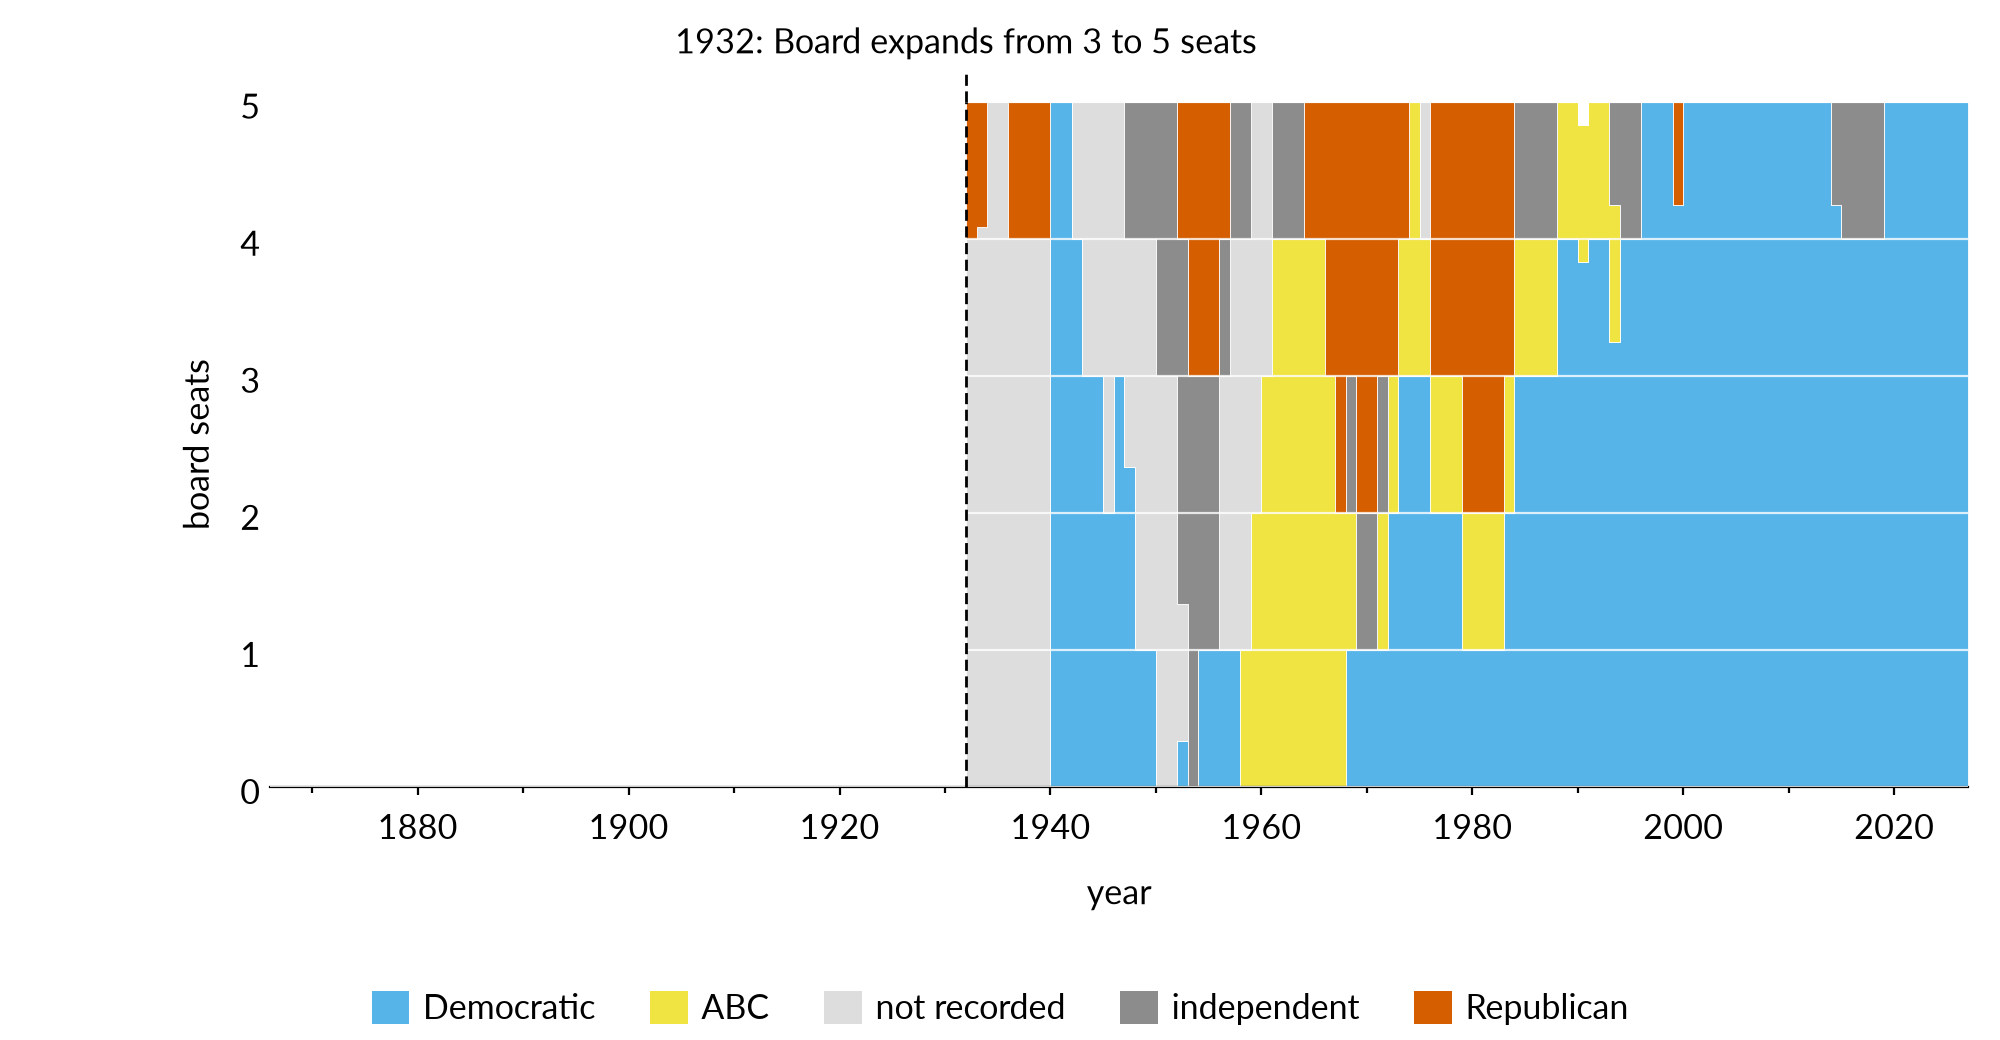
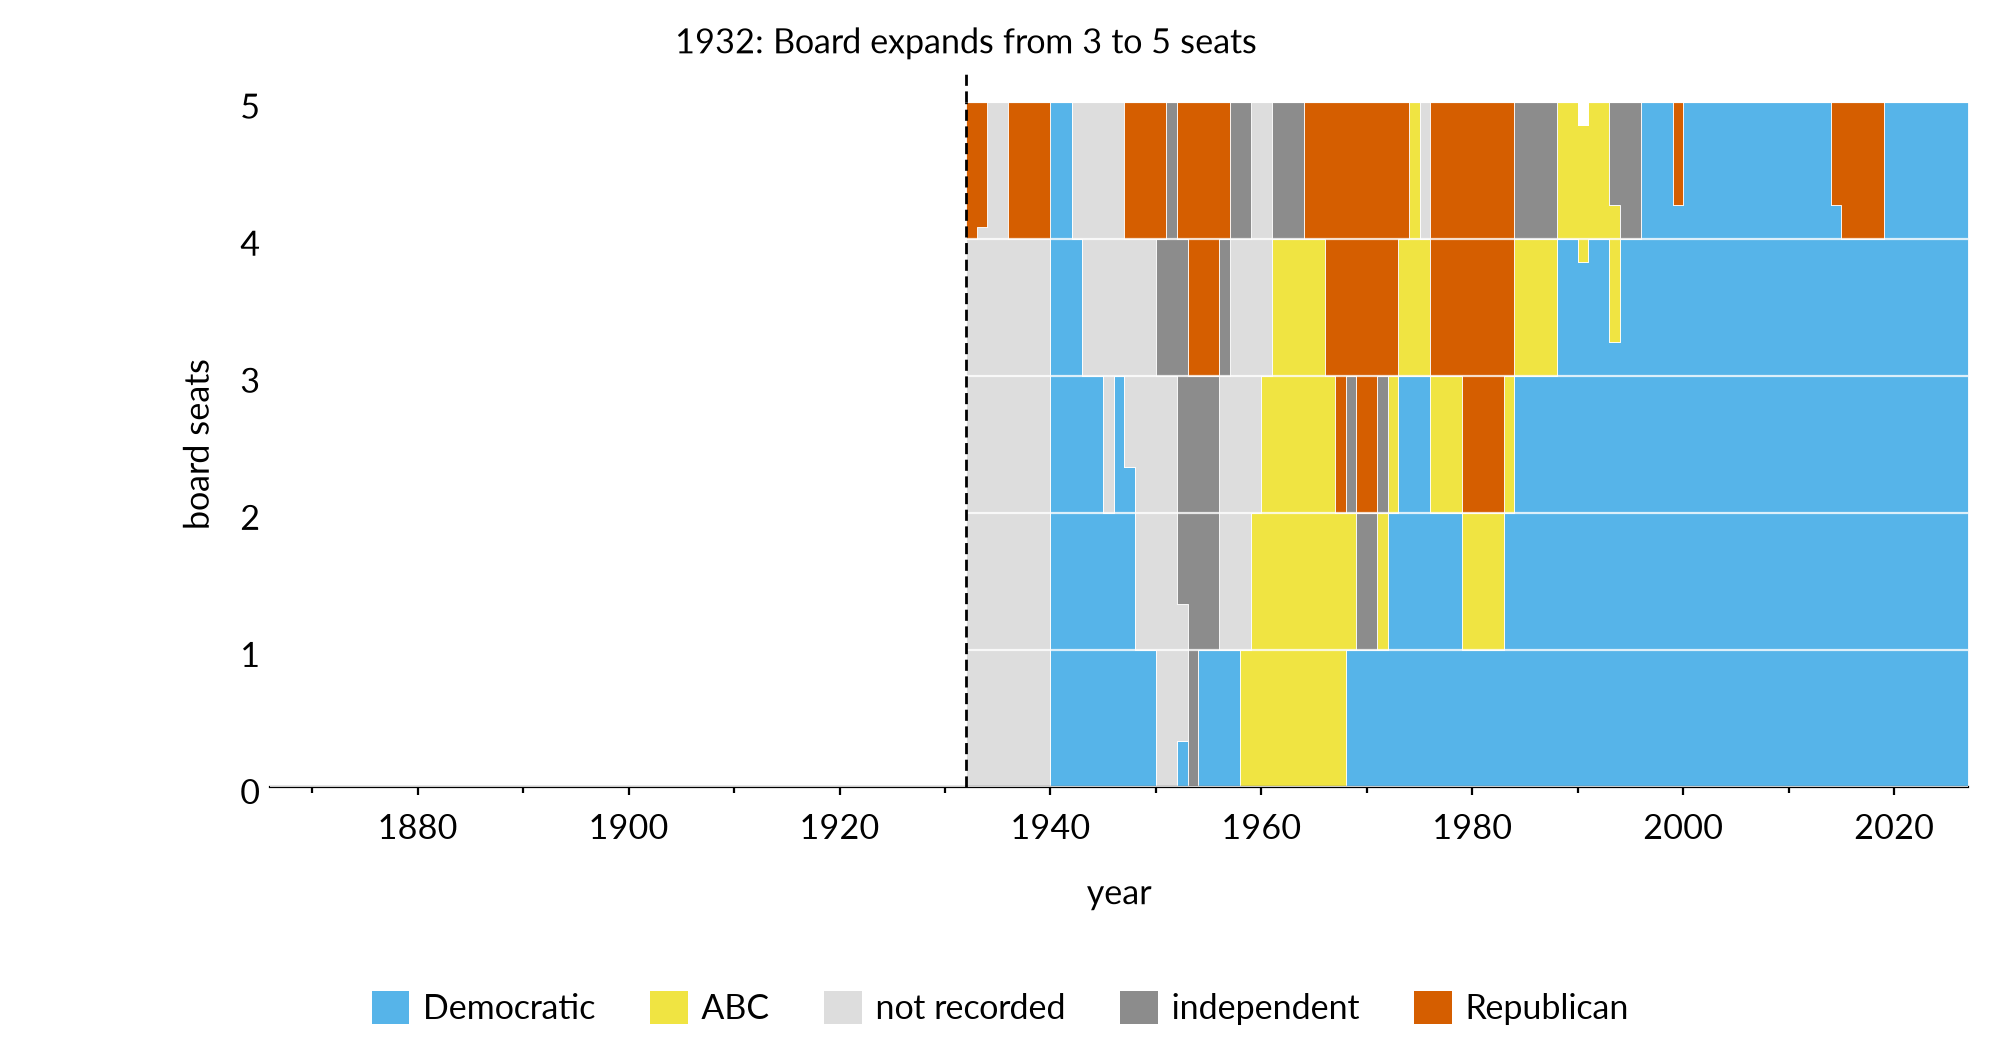
board_party: a party's open endorsement makes an independent its candidate
Settled by Sally: an independent openly endorsed by the Republicans is
functionally a Republican. Dugan (1947) and Vihstadt (2014, 2015) are
recoded, with the label they ran under kept in the note; a source that
says only that someone leaned a party's way still reads as independent.
Q29 records the rule.

Changed region(s): [[0.899, 0.0923, 0.961, 0.2462], [0.558, 0.0923, 0.589, 0.2462]]

diff --git a/docs/questions.md b/docs/questions.md
@@ -241,13 +241,17 @@ changes between elections. Three sources, in order:
    A cited claim that contradicts a party the county prints stops the build.
 
 **The rule for reporting:** the party or coalition whose candidate the source
-says the member was. A self-declared independent whom a party endorsed stays
-independent — Dugan in 1946, Vihstadt in 2014 — with the endorsement in the
-note. ABC's endorsement counts as ABC's banner, because endorsing was what
-ABC did; where a source names both ABC and a party, the party (Fisher, 1967).
+says the member was, and a party's open endorsement makes someone its
+candidate whatever label they ran under. Settled by Sally on 23 September
+2026: an independent openly endorsed by the Republicans is functionally a
+Republican, so Dugan in 1946 and Vihstadt in 2014 are coded Republican, with
+"ran as an independent" in the note. A source saying only that someone
+*leaned* a party's way (Tillema, 1952) is not an endorsement and stays
+independent. ABC's endorsement counts as ABC; where a source names both ABC
+and a party, the party (Fisher, 1967).
 
-**What it yields, 1932–2026.** 146 terms: 76 Democratic, 15 Republican, 15
-ABC, 15 independent, 25 not recorded. The built table reproduces three
+**What it yields, 1932–2026.** 146 terms: 76 Democratic, 18 Republican, 15
+ABC, 12 independent, 25 not recorded. The built table reproduces three
 compositions reported independently — three Republicans in 1970 and again in
 1979, three independents in 1952 — none of which was used to build it.
 
@@ -289,9 +293,6 @@ exists.
 - **Ricks (1968–71) and Brunner (1984–87)** stay independent on the county's
   label. The Washington Post's 1983 preview reportedly calls Brunner a
   Republican; the archive is paywalled and was not read.
-- **Vihstadt** is coded independent with formal Republican backing, per the
-  rule. Sally sat with the Board this covers; `hudson2026` exists for exactly
-  this kind of correction.
 - **ABC as its own band.** It could be folded into Democratic, as the coalition
   it was. Kept separate because the county itself recorded it and an
   ABC-majority Board from 1957 to 1966 is a finding.
